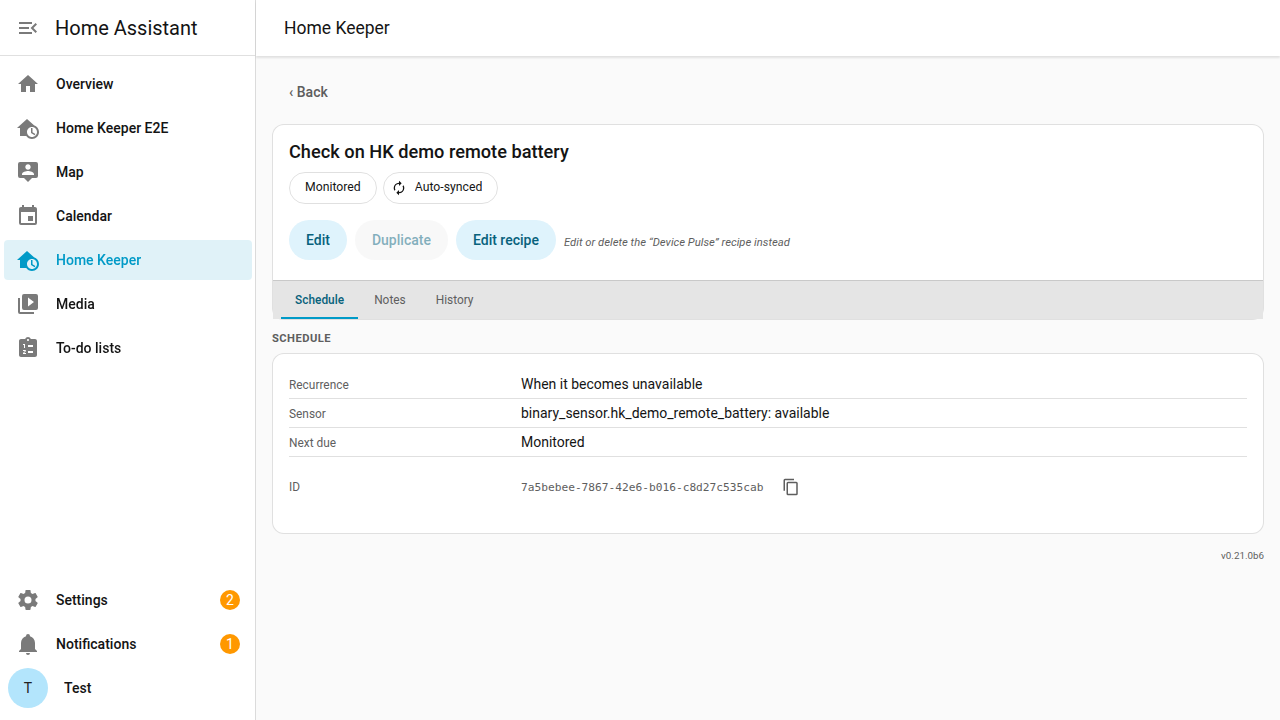
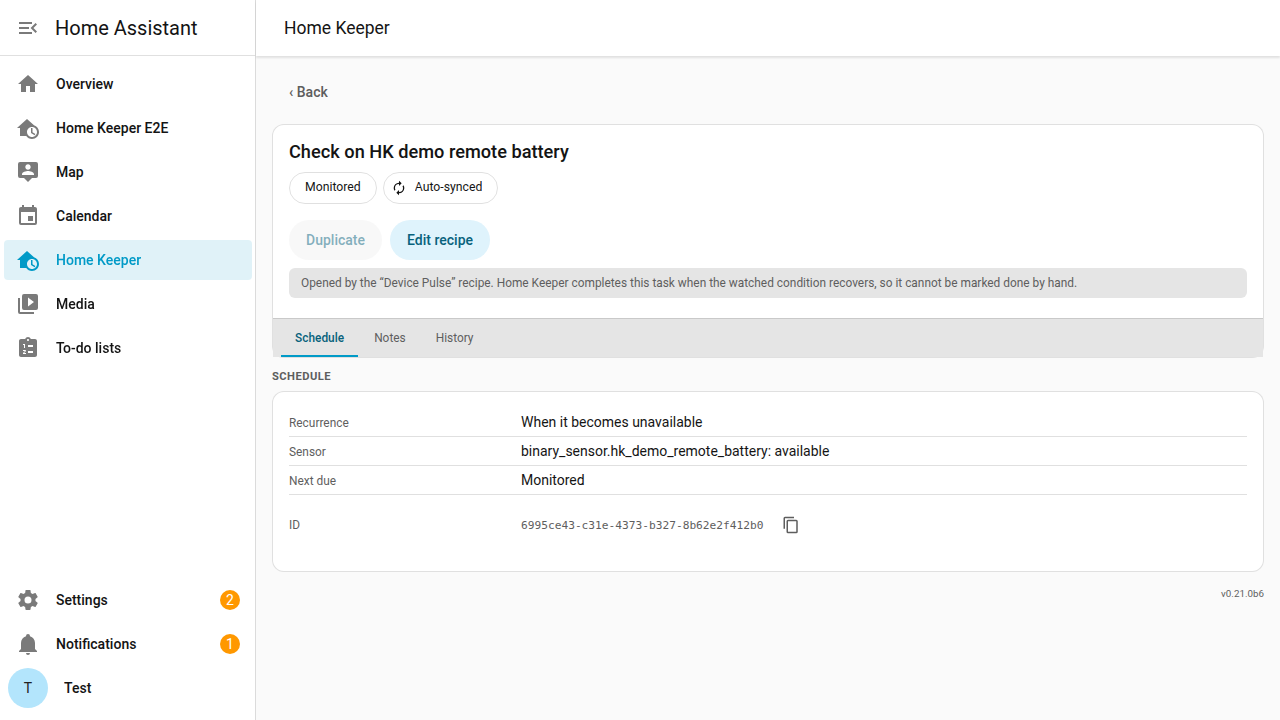
fix(panel): join the blocked Done to its caret, and prove Edit is gone on a real task
Two things the maintainer saw on a live install.

**The greyed Done did not meet the caret.** `.hk-split-pill` squared its halves
with direct-child selectors, but a blocked Done is not a bare `ha-button`:
`_blockedButton` wraps it in a span so a disabled button still reports a click.
The wrapper kept its own pill radius and its own height, so the pair read as
two controls with a seam down the middle. The rules now reach one level in and
the wrapper stretches, so the two halves share an edge. The caret stays at its
live weight rather than greying with Done, because snooze still works there;
only completion is withheld.

**Edit was reported as still present and working.** It is not, in this branch:
the new capture step asserts `.d-edit` and `.d-del` are absent on a *task the
reconciler actually materialized*, which is the gap the unit tests could not
close — they build `source.declarative_companion` themselves, so only this one
proves the reconciler writes the shape `sourceOwnedTask` reads. The report is
consistent with a preview build installed before f080058; the preview
re-publishes per push and now carries the fix.

Adds `21g`, the armed state, which `21e` cannot show: Done greyed rather than
absent, flush against the caret, under the prompt that says what clears it. The
step asserts the two halves match in height and share an edge before it shoots,
so this cannot silently regress into a screenshot nobody re-reads.
[…]

Changed region(s): [[0.1875, 0.3056, 1.0, 0.7333], [0.9375, 0.7639, 1.0, 0.7944]]

diff --git a/tests/e2e/screenshots-declarative.capture.ts b/tests/e2e/screenshots-declarative.capture.ts
@@ -138,17 +138,54 @@ test('capture a declarative-companion task page', async ({ page }) => {
     const actions = panel.locator('.hk-detail-actions').first();
     await expect(actions).toBeVisible({ timeout: 45_000 });
 
-    // The three things the fix changed, asserted before the shot so a screenshot of
-    // the wrong state cannot be committed.
+    // Everything the fix changed, asserted before the shot so a screenshot of the
+    // wrong state cannot be committed. On a *materialized* task rather than a
+    // hand-built fixture: the unit tests build `source.declarative_companion`
+    // themselves, so only this one proves the reconciler writes the shape
+    // `sourceOwnedTask` reads.
     await expect(actions.locator('.d-edit-recipe')).toBeVisible();
     await expect(actions.locator('.d-open-in')).toHaveCount(0);
     await expect(actions.locator('.d-done')).toHaveCount(0);
+    // The recipe owns name, device, area and the binding, so the task's own Edit
+    // and Delete are gone and Duplicate is greyed.
+    await expect(actions.locator('.d-edit')).toHaveCount(0);
+    await expect(actions.locator('.d-del')).toHaveCount(0);
     await expect(panel.locator('.hk-detail-card').first()).toContainText('Monitored');
 
     await page.mouse.move(0, 0);
     await page.waitForTimeout(400);
     await page.screenshot({
       path: `${OUT}/21e-panel-declarative-task-detail.png`,
+      fullPage: true,
+    });
+
+    // 21g. The same task once the watcher arms it. This is the state the Monitored
+    // shot cannot show: Done is greyed rather than absent, because the recipe
+    // auto-clears and a hand-pressed Done would dismiss a condition that still
+    // stands. It has to sit flush against the snooze caret — the blocked Done is a
+    // wrapped button, and the split pill's rules only reached a bare one, so the
+    // pair rendered as two controls with a seam between them.
+    await callService('home_keeper', 'trigger_task', { task_id: taskId });
+    await page.reload({ waitUntil: 'domcontentloaded' });
+    const armed = panel.locator('.hk-detail-actions').first();
+    await expect(armed.locator('.d-done-blocked-wrap')).toBeVisible({ timeout: 45_000 });
+    await expect(armed.locator('.hk-split-caret')).toBeVisible();
+    await expect(armed.locator('.d-done')).toHaveCount(0);
+    // Both halves of the pill report the same height and share an edge.
+    const pill = armed.locator('.hk-split-pill');
+    const geom = await pill.evaluate((el) => {
+      const done = el.querySelector('.hk-blocked-wrap ha-button') as HTMLElement;
+      const caret = el.querySelector('.hk-split-caret') as HTMLElement;
+      const a = done.getBoundingClientRect();
+      const b = caret.getBoundingClientRect();
+      return { dh: a.height, ch: b.height, gap: b.left - a.right };
+    });
+    expect(Math.abs(geom.dh - geom.ch), 'the two halves must be the same height').toBeLessThan(2);
+    expect(Math.abs(geom.gap), 'the two halves must share an edge').toBeLessThan(2);
+    await page.mouse.move(0, 0);
+    await page.waitForTimeout(400);
+    await page.screenshot({
+      path: `${OUT}/21g-panel-declarative-task-armed.png`,
       fullPage: true,
     });
 

diff --git a/custom_components/home_keeper/frontend/src/panel-styles.ts b/custom_components/home_keeper/frontend/src/panel-styles.ts
@@ -1161,8 +1161,17 @@ export const STYLES = `
     display: inline-flex; align-items: stretch;
     border-radius: var(--hk-r-pill); overflow: hidden;
   }
-  .hk-split-pill > ha-button { --ha-button-border-radius: 0; }
-  .hk-split-pill > ha-button::part(base) { box-shadow: none; }
+  /* A *blocked* Done is not a bare ha-button: _blockedButton wraps it in a span that
+     carries the click a disabled button will not report. The pill's rules were
+     direct-child only, so that wrapper kept its own rounded ends and its own height
+     and the pair read as two separate controls with a gap down the middle. Reach one
+     level in, and let the wrapper stretch so both halves share an edge.
+     (No backticks in this file: every rule lives inside a template literal.) */
+  .hk-split-pill > .hk-blocked-wrap { display: inline-flex; align-items: stretch; }
+  .hk-split-pill > ha-button,
+  .hk-split-pill > .hk-blocked-wrap > ha-button { --ha-button-border-radius: 0; }
+  .hk-split-pill > ha-button::part(base),
+  .hk-split-pill > .hk-blocked-wrap > ha-button::part(base) { box-shadow: none; }
   ha-button.hk-split-caret { --mdc-icon-size: 20px; }
   ha-button.hk-split-caret::part(base) {
     min-width: 0; padding-left: 7px; padding-right: 7px;
